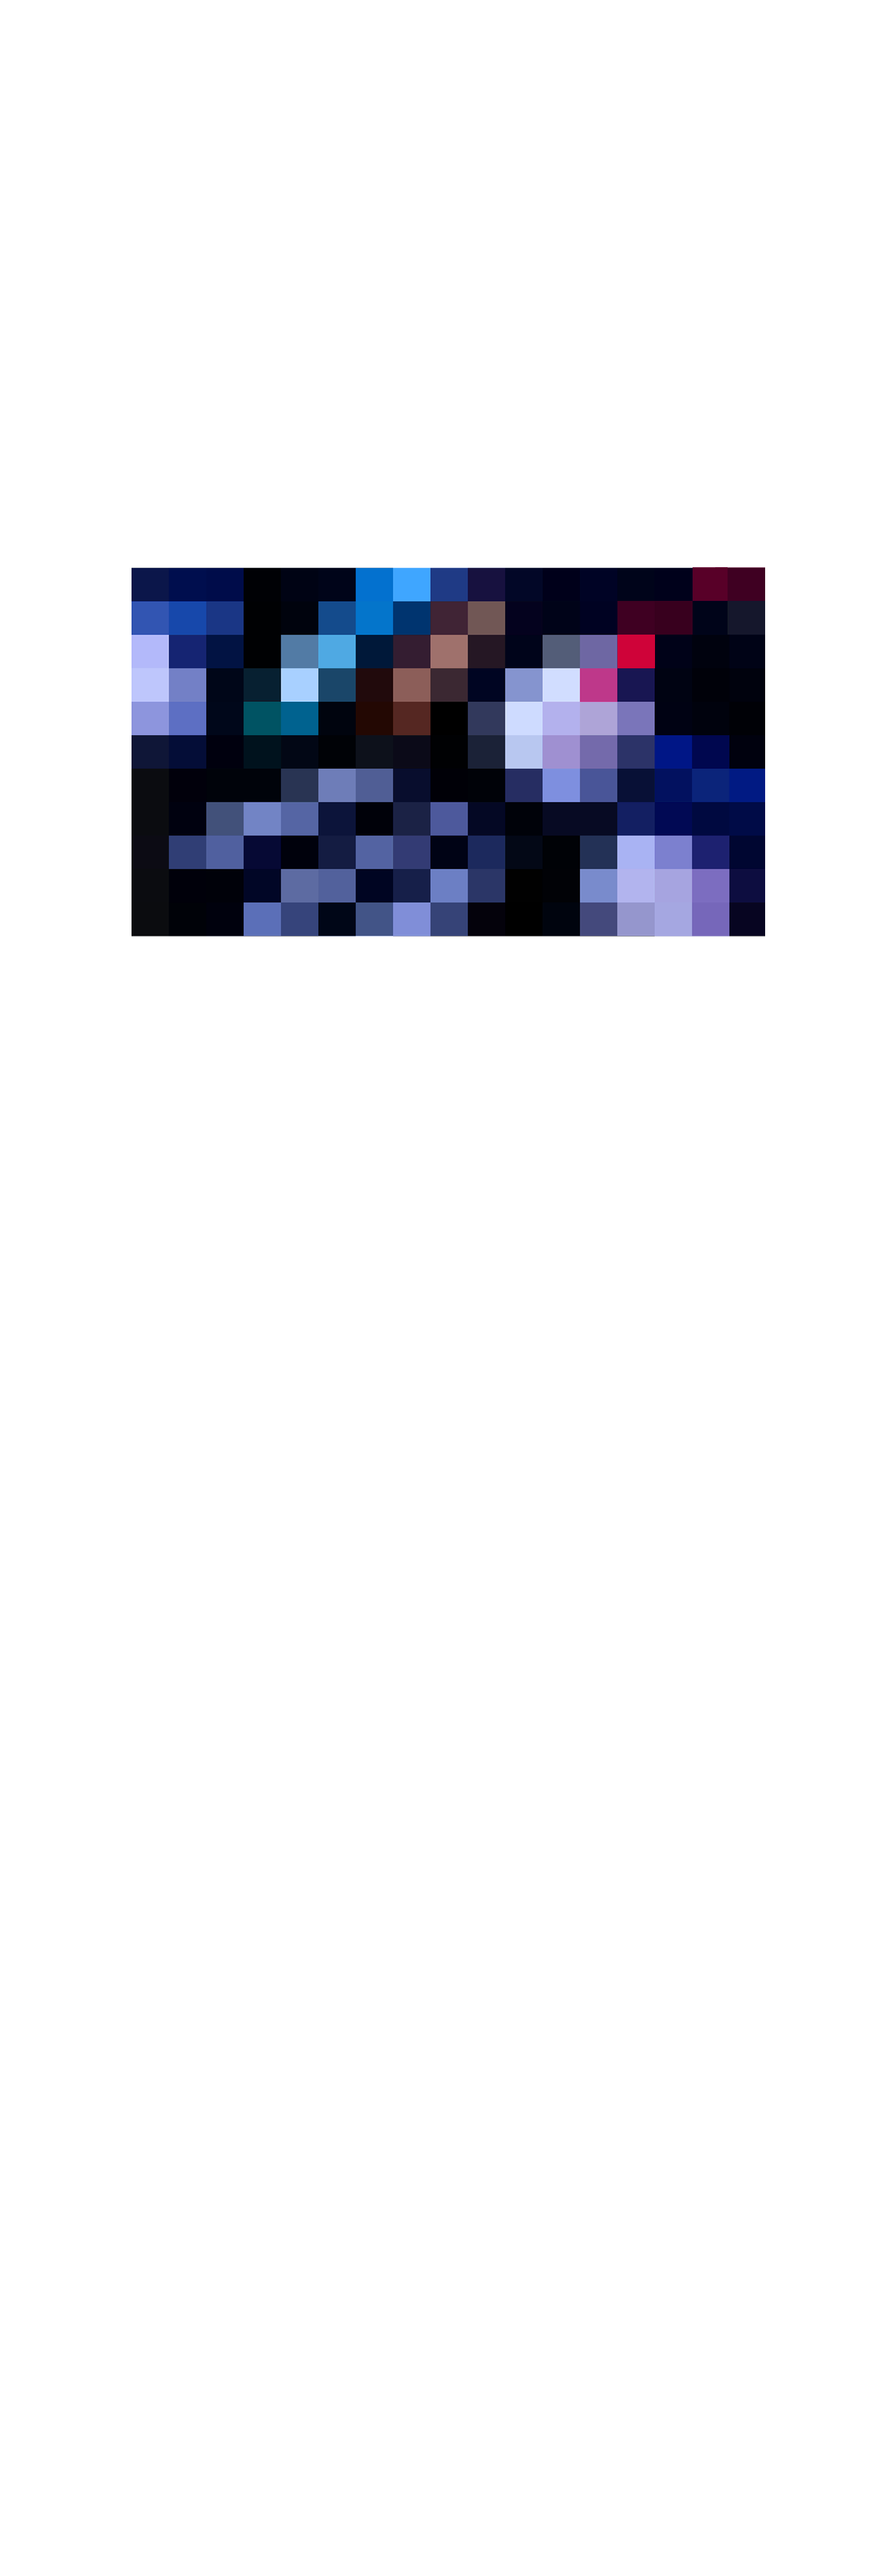
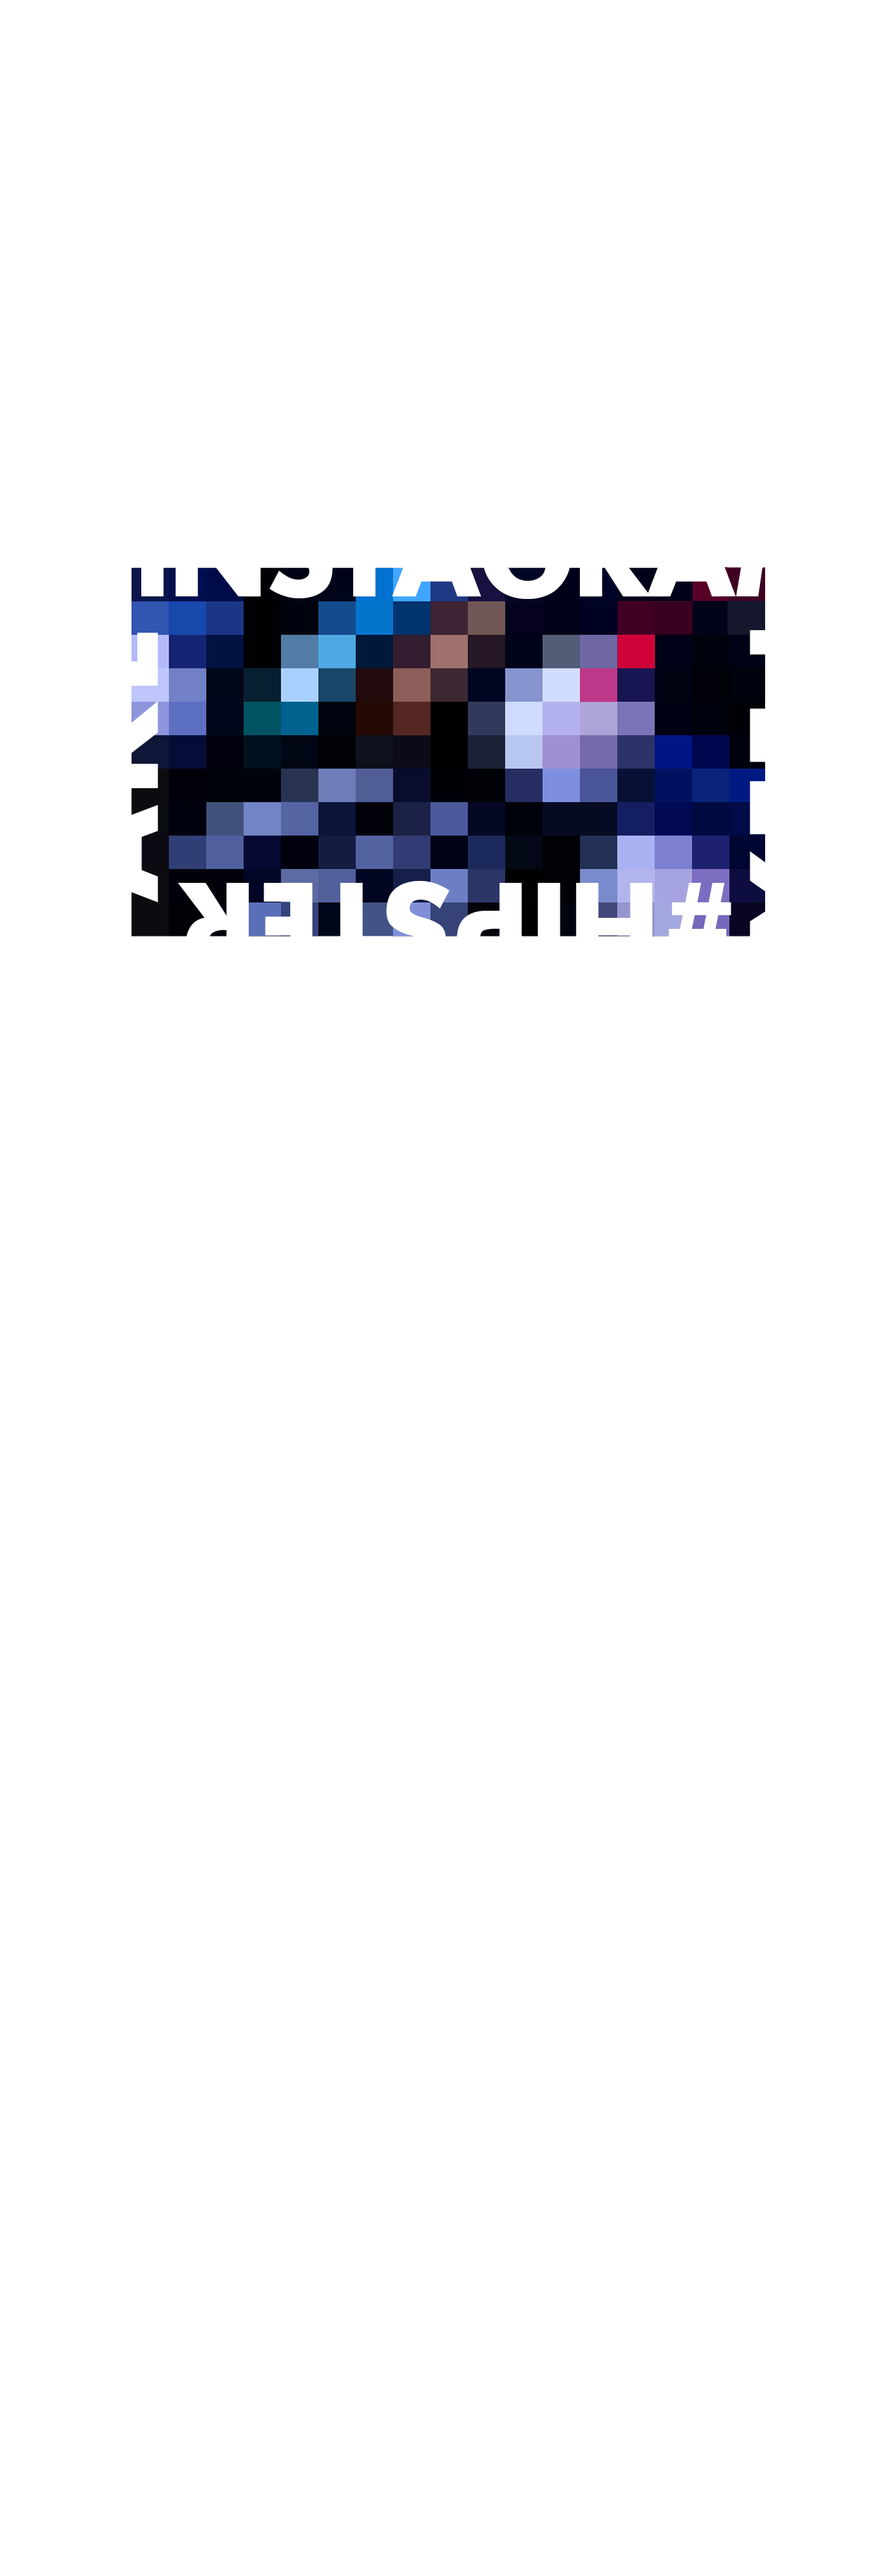
Add files via upload

Changed region(s): [[0.3997, 0.2184, 0.8609, 0.3744], [0.2152, 0.3432, 0.7379, 0.3744], [0.123, 0.2184, 0.369, 0.3744]]

diff --git a/index.html b/index.html
@@ -14,10 +14,7 @@
 		.txt { font-size:13pt; line-height: 2em;}
 		span {color:#2a00ff;}
 		.wrap_2 {margin: 0; display: block; background-color:black; height: 100vh; color:white; font-size:180px; font-family: 'Montserrat', sans-serif; position:relative;  }
-		.txt_a{ margin: 0; position:absolute; z-index:3; left:150px; top:10px; letter-spacing:7pt;}
-		.txt_b{ margin: 0; position:absolute; z-index:3; transform: rotate(-90deg); left:-60px; top: 380px; letter-spacing:16pt;}
-		.txt_c{ margin: 0; position:absolute; z-index:3; transform: rotate(90deg); right:-55px; top: 400px; letter-spacing:9pt;}
-		.txt_d{ margin: 0; position:absolute; z-index:3; transform: rotate(180deg); top: 600px; left:294px; letter-spacing:10pt;}
+
 		.bm {position:absolute; z-index:1; top:-740px; left:160px;}
 		.bx_1 {width: 1920px; height:840px; position:absolute; z-index:100;}
 		.wrap_3 {margin: 0;padding:0; display: block; height: 100vh; color:white; font-size:180px; background:url(bg3.png);background-size: cover; height: 100vh; background-attachment: fixed;}
@@ -36,6 +33,7 @@
 		.a:hover {background-image: url(mouse_1.png); width: 33.3%; }
 		.bb {margin:0; display: block; width:33.4%;  float: left; height: 960px;}
 		.cc {margin:0; display: block; width:33.3%;  float: left; height: 960px;}
+		footer {margin:auto; text-align: center; padding-top:450px; padding-bottom:15px; opacity: 50%; font-size: 12px;}
 
 
 		@keyframes ro{
@@ -48,24 +46,20 @@
 	    }
 	</style>
 </head>
-<body>
+<body style="overflow-x:hidden">
 	<div class="wrap_1">
 		<img class="logo" src="logo.png">
 		<div class="con_box">
 			<img class="img_1" src="bimg1.png">
 			<div class="txt_wrap">
 				<p class="tit">#HIPSTER_AND_INSTA</p>
-				<p class="txt"><span>대중성과 유행을 따르지않고 2, 30대의 독립적인 생각과 비주류</span>, 자신들만의 독특하고 개성있는 패션 또는 잘 알려지지 않은 패션 브랜드 등을 가치있게 여기는 사람들을 일컫는다. <span>주로 인스타그램과 SNS에서 추앙을 받는 부류들이다.</span> 남들 다하는 주류의 유행에 참여하면 세련되지 못하다고 생각하는 스노비즘의 극단적인 경우라고 할 수 있다.
+				<p class="txt"><span>힙스터란 대중성과 유행을 따르지않고 자신들만의 독특하고 개성있는</span>패션과 비주류의 문화들을 소비하는 사람들을 일컫는다. <span>주로 인스타그램과 SNS에서 추앙을 받는 부류들이다.</span> 남들 다하는 주류의 유행에 참여하면 세련되지 못하다고 생각하는 스노비즘의 극단적인 경우라고 할 수 있다.
 				주류에 반발하는 성향을 갖고 있기 때문에 유행을 싫어할 뿐만 아니라 '구분짓기'로 자신들이 즐기는 문화가 대중화되는 것도 탐탁하게 여기지 않는다.
 				</p>
 			</div>
 		</div>
 	</div>
 	<div class="wrap_2">
-		<p class="txt_a">#INSTAGRAM</p>
-		<p class="txt_b">FLEX</p>
-		<p class="txt_c">FAKE</p>
-		<p class="txt_d">#HIPSTER</p>
 		<img class="bm" src="bimg2.png">
 		<img class="bx_1" src="bimg3.gif">
 	</div>
@@ -88,4 +82,7 @@
 
 
 </body>
+<footer>
+	copyright & copy; 2019 한경 대학교 디자인학과 정영지. 모든 권리 보유.
+</footer>
 </html>
